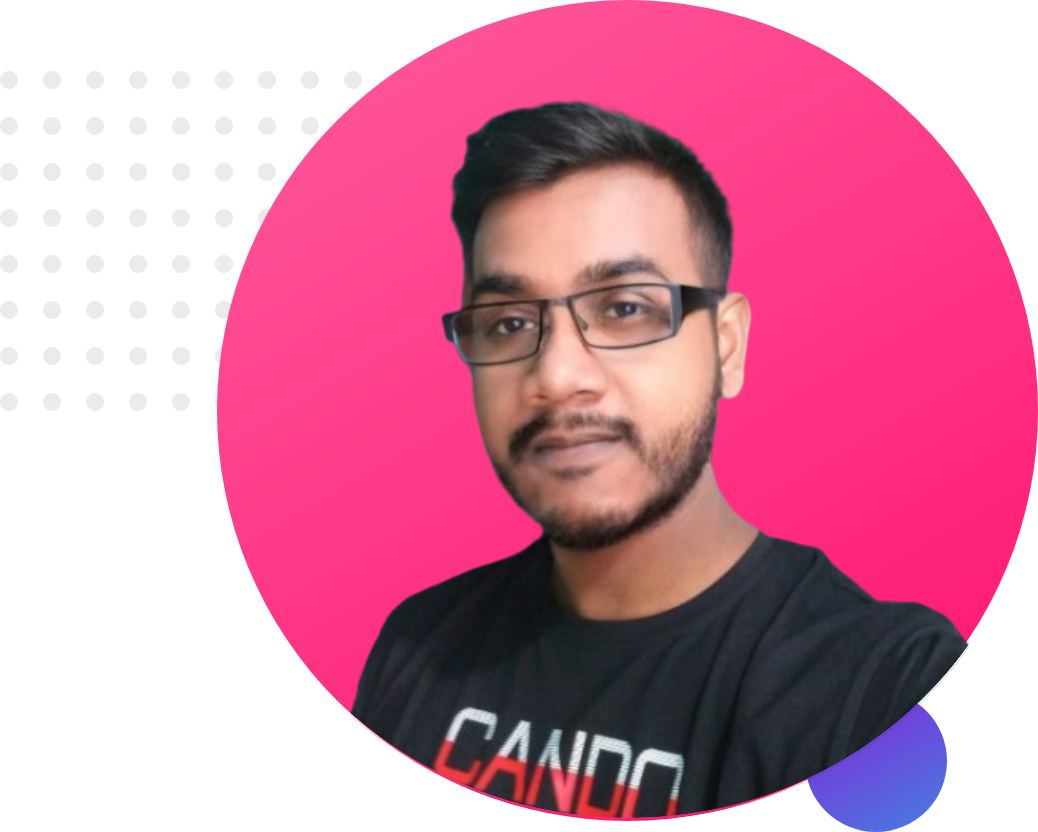
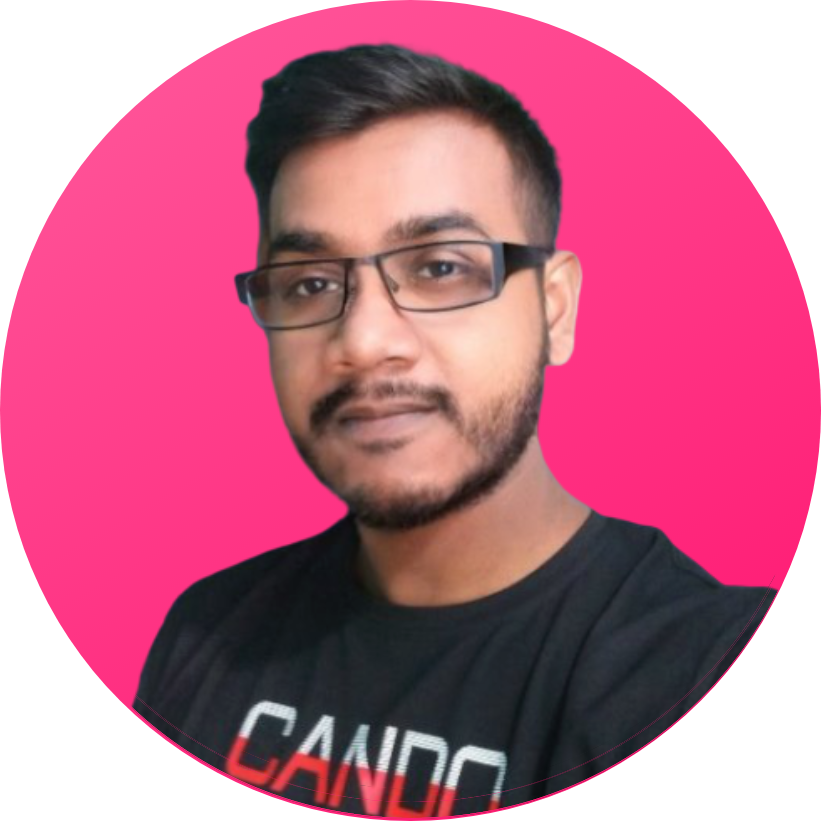
web portfolio static site  updated

diff --git a/style.css b/style.css
@@ -61,14 +61,12 @@ p{
     background-position: right;
     overflow: hidden;
 }
-.dream-section .half-width{
-margin-left: 2%;
-}
+
 .dream-section img{
-    width: 90%;
+    width: 80%;
 }
 .dream-right{
-    margin-top: 30px;
+    margin-top: 50px;
 }
 
 /* Experiences Section */
